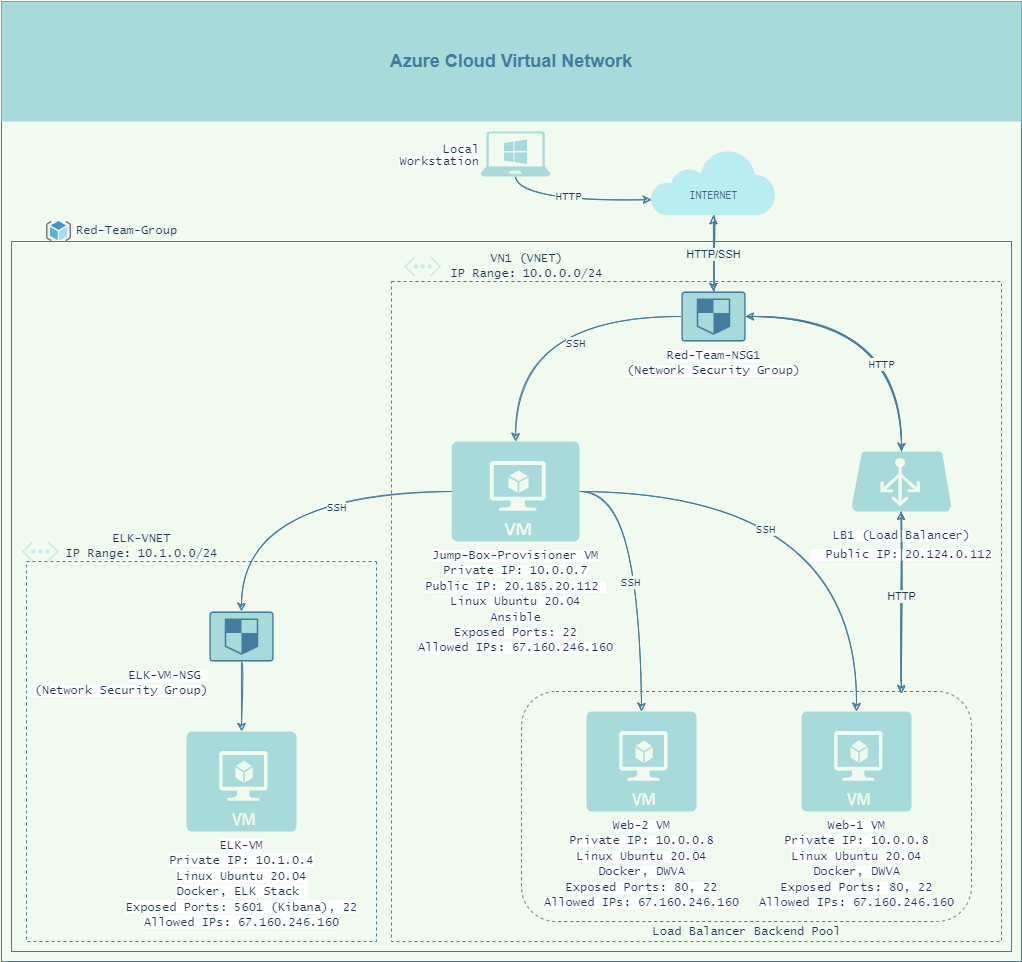
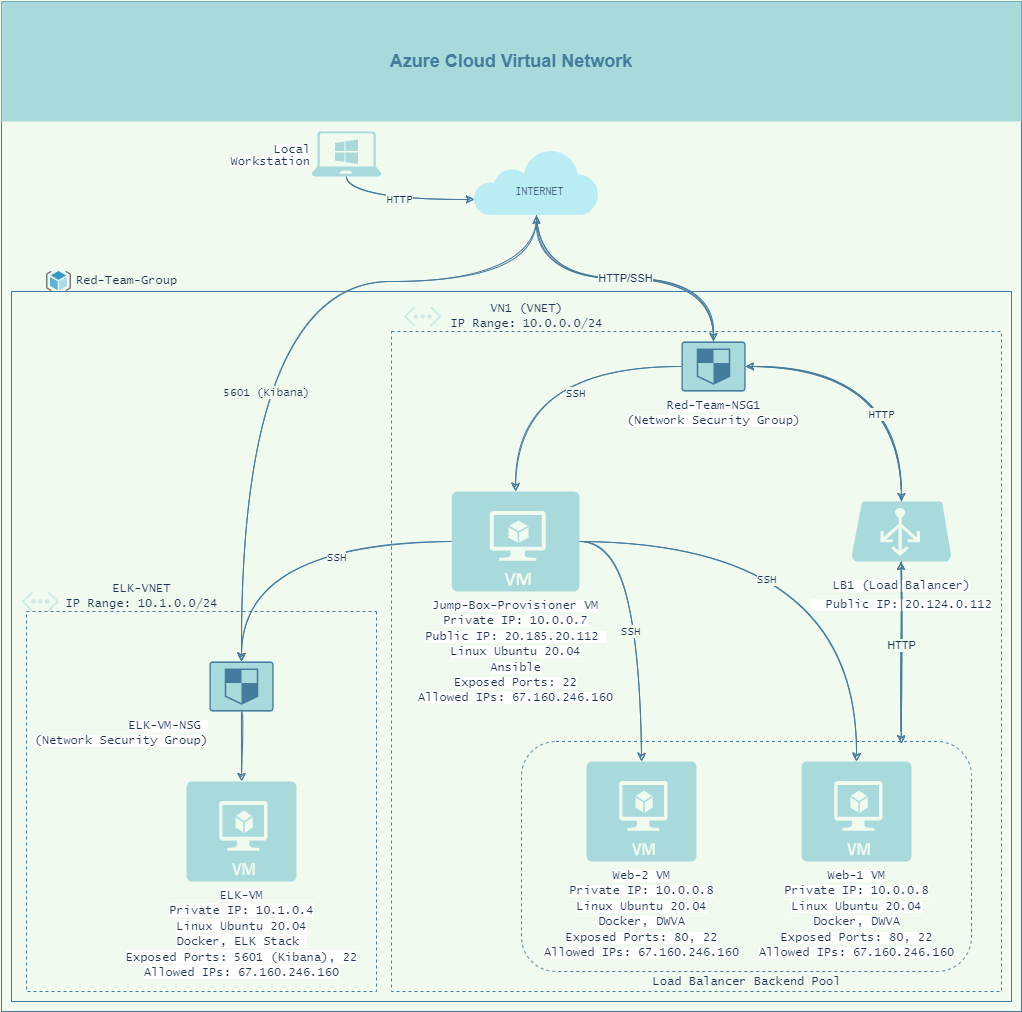
second commit

diff --git a/README.md b/README.md
@@ -2,11 +2,11 @@
 
 The files in this repository were used to configure the network depicted below.
 
-![TODO: Update the path with the name of your diagram](Images/diagram_filename.png)
+![Azure Cloud Virtual Network Diagram with ELK Stack](Diagrams/Azure_Cloud_Virtual_Network_with_ELK_Stack.png)
 
 These files have been tested and used to generate a live ELK deployment on Azure. They can be used to either recreate the entire deployment pictured above. Alternatively, select portions of the YAML playbook file may be used to install only certain pieces of it, such as Filebeat.
 
-  - _TODO: Enter the playbook file._
+  - [The Install ELK playbook](Ansible/install-elk.yml)
 
 This document contains the following details:
 - Description of the Topology
@@ -22,75 +22,75 @@ This document contains the following details:
 The main purpose of this network is to expose a load-balanced and monitored instance of DVWA, the D*mn Vulnerable Web Application.
 
 Load balancing ensures that the application will be highly available, in addition to restricting unauthorized traffic to the network.
-- _TODO: What aspect of security do load balancers protect? What is the advantage of a jump box?_ Load balancers protect the availability of networks by helping to prevent Denial-of-Service by balancing traffic between different machines. The advantage of using a jump box 
 
-Integrating an ELK server allows users to easily monitor the vulnerable VMs for changes to the _____ and system _____.
-- _TODO: What does Filebeat watch for?_
-- _TODO: What does Metricbeat record?_
+Load balancers protect the availability of networks by helping to prevent Denial-of-Service by balancing traffic between different machines and applying rules. The advantages of using a jump box include efficient management of multiple machines as well as fast and easy deployment of web servers. 
+
+Integrating an ELK server allows users to easily monitor the vulnerable VMs for changes to the log files and system metrics.
+- Filebeat watches log files and relays any logged events that have specified characteristics.
+- Metricbeat records metric data sourced from system services.
 
 The configuration details of each machine may be found below.
-_Note: Use the [Markdown Table Generator](http://www.tablesgenerator.com/markdown_tables) to add/remove values from the table_.
 
 | Name     | Function | IP Address | Operating System |
 |----------|----------|------------|------------------|
-| Jump Box | Gateway  | 10.0.0.1   | Linux            |
-| TODO     |          |            |                  |
-| TODO     |          |            |                  |
-| TODO     |          |            |                  |
+| Jump Box | Gateway  | 10.0.0.7   | Linux            |
+| Web-1    | DVWA     | 10.0.0.8   | Linux            |
+| Web-2    | DVWA     | 10.0.0.6   | Linux            |
+| ELK-VM   | ELK Stack| 10.1.0.4   | Linux            |
 
 ### Access Policies
 
 The machines on the internal network are not exposed to the public Internet. 
 
-Only the _____ machine can accept connections from the Internet. Access to this machine is only allowed from the following IP addresses:
-- _TODO: Add whitelisted IP addresses_
+Only the Jump Box machine can accept connections from the Internet. Access to this machine is only allowed from the following IP addresses:
+- 67.160.246.160 (my personal public IP address)
 
-Machines within the network can only be accessed by _____.
-- _TODO: Which machine did you allow to access your ELK VM? What was its IP address?_
+Machines within the network can only be accessed by the Jump Box VM.
+- The Jump Box VM (10.0.0.7) is allowed to access the ELK VM via an Ansible container configuration.
 
 A summary of the access policies in place can be found in the table below.
 
 | Name     | Publicly Accessible | Allowed IP Addresses |
 |----------|---------------------|----------------------|
-| Jump Box | Yes/No              | 10.0.0.1 10.0.0.2    |
-|          |                     |                      |
-|          |                     |                      |
+| Jump Box | No                  | My IP Address        |
+| Web-1    | No                  | My IP Address        |
+| Web-2    | No                  | My IP Address        |
+| ELK-VM   | Yes                 | My IP Address        |
 
 ### Elk Configuration
 
-Ansible was used to automate configuration of the ELK machine. No configuration was performed manually, which is advantageous because...
-- _TODO: What is the main advantage of automating configuration with Ansible?_
+Ansible was used to automate configuration of the ELK machine. No configuration was performed manually, which is advantageous because it expedites the proscess as well as lowers the possibility of user error. It also allows for a relatively simple troubleshooting process if any problems arise, as well as great potential for scalability in that it can configure many machines at once.
 
 The playbook implements the following tasks:
-- _TODO: In 3-5 bullets, explain the steps of the ELK installation play. E.g., install Docker; download image; etc._
-- ...
-- ...
+
+- First, installs are conducted for docker.io, python3-pip, and the Docker module.
+- Subsequently, virtual memory is increased and allocated to the ELK VM.
+- After, the Docker ELK container is downloaded and launched.
+- The playbook then uses `systemctl` to enable the Docker service to run on boot.
 
 The following screenshot displays the result of running `docker ps` after successfully configuring the ELK instance.
 
-![TODO: Update the path with the name of your screenshot of docker ps output](Images/docker_ps_output.png)
+![docker ps output](Images/docker_ps_output.png)
 
 ### Target Machines & Beats
 This ELK server is configured to monitor the following machines:
-- _TODO: List the IP addresses of the machines you are monitoring_
+- Web-1: 10.0.0.8
+- Web-2: 10.0.0.6
 
 We have installed the following Beats on these machines:
-- _TODO: Specify which Beats you successfully installed_
+- Filebeat
+- Metricbeat
 
 These Beats allow us to collect the following information from each machine:
-- _TODO: In 1-2 sentences, explain what kind of data each beat collects, and provide 1 example of what you expect to see. E.g., `Winlogbeat` collects Windows logs, which we use to track user logon events, etc._
+
+- `Filebeat` collects system logs and looks for changes to files such as authorization logs in specified locations, while `Metricbeat` collects system metrics such as CPU usage, memory usage, uptime, as well as system services statistics.
 
 ### Using the Playbook
 In order to use the playbook, you will need to have an Ansible control node already configured. Assuming you have such a control node provisioned: 
 
 SSH into the control node and follow the steps below:
-- Copy the _____ file to _____.
-- Update the _____ file to include...
-- Run the playbook, and navigate to ____ to check that the installation worked as expected.
-
-_TODO: Answer the following questions to fill in the blanks:_
-- _Which file is the playbook? Where do you copy it?_
-- _Which file do you update to make Ansible run the playbook on a specific machine? How do I specify which machine to install the ELK server on versus which to install Filebeat on?_
-- _Which URL do you navigate to in order to check that the ELK server is running?
+- Copy the [Install-elk.yml](Ansible/install-elk.yml) playbook to /etc/ansible/ in the container.
+- Update the /ansible/hosts file to include Web VM and ELK VM IP addresses. In order to ensure the correct machines will be configured with Filebeat, Metricbeat, or ELK, the Web VM IPs must be placed under the `[webservers]` line, while the ELK VM IP should be placed under the `[elk]` line.
+- Run the playbook, and navigate to the Kibana web page [http://13.64.212.35:5601/app/kibana] to check that the installation worked as expected.
 
 _As a **Bonus**, provide the specific commands the user will need to run to download the playbook, update the files, etc._
